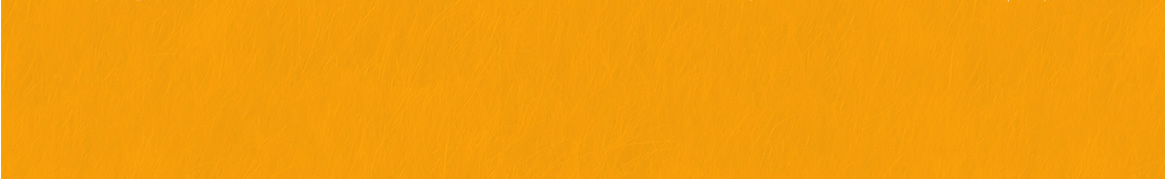
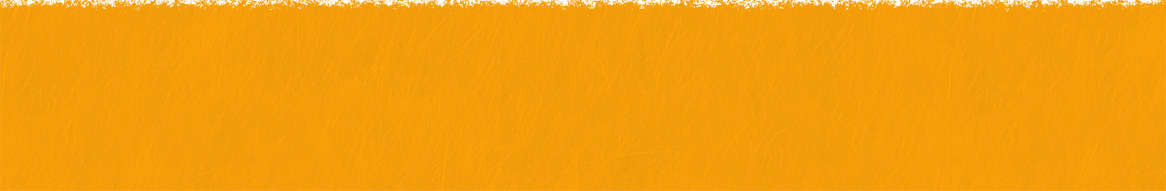
desktop checking done

Changed region(s): [[0.0, 0.0, 1.0, 0.0559]]

diff --git a/style-1.css b/style-1.css
@@ -26,11 +26,15 @@ header.fl-hdr {
 .hdr-rgt {
     text-align: right
 }
-.hdr-logo,
+.hdr-logo{
+    display: inline-block;
+    vertical-align: baseline;
+    max-width: 207px
+}
 .secure-img{
     display: inline-block;
     vertical-align: baseline;
-    max-width: 160px
+    max-width: 223px
 }
 .header .secure-img {
     max-width: 225px
@@ -38,9 +42,6 @@ header.fl-hdr {
 .fl-hdr img{
     width: 100%
 }
-
-
-
 .fl-shipping {
     padding-bottom: 28px;
     background: #fff;
@@ -88,9 +89,6 @@ header.fl-hdr {
     border-radius: 50px;
     top: 57px;
 }
-
-
-
 .fl-special-offer-sec{
     position: relative;
     color: #fff;
@@ -104,7 +102,7 @@ header.fl-hdr {
     right: 0;
     background-repeat: no-repeat!important;
     background-size: cover!important;
-    background-position: center bottom!important;
+    background-position: center bottom -1px !important;
     z-index: 2
 }
 .special-offer-dsc {
@@ -119,7 +117,7 @@ header.fl-hdr {
     color: #ffa70b;
     display: inline-block;
     vertical-align: baseline;
-    margin-bottom: 10px;
+    margin-bottom: 12px;
 }
 .special-offer-dsc > span {
 	font-family: 'Montserrat-SemiBold';
@@ -137,15 +135,14 @@ header.fl-hdr {
 .special-offer-dsc h2 span{
     color: #ffa70b
 }
-.special-offer-dsc > p{
-	font-family: 'Montserrat-SemiBold';
+.special-offer-dsc > p {
+    font-family: 'Montserrat-SemiBold';
     font-size: 24px;
+    padding-top: 8px;
     margin-bottom: 10px;
 }
-
-
 .fl-doctor-intro-sec {
-    padding: 52px 0 40px;
+    padding: 52px 0 30px;
     background: #fff;
 }
 .fl-doctor-intro-twopart {
@@ -155,7 +152,6 @@ header.fl-hdr {
     width: 48.82%;
     float: left;
 }
-
 .fl-doctor-intro-rgt-des {
     width: 51.18%;
     float: left;
@@ -166,17 +162,13 @@ header.fl-hdr {
 .fl-doctor-intro-sec p strong {
     font-family: 'Montserrat-Bold';
 }
-
 .fl-doctor-intro-rgt-des p:last-child{
     margin-bottom: 0;
 }
-
-
 .fl-shiny-hair-sec{
 	position: relative;
 	overflow:hidden;
 }
-
 .fl-shiny-hair-sec h3{
 	font-family: 'YanoneKaffeesatzBold';
 }
@@ -188,13 +180,12 @@ header.fl-hdr {
     margin-bottom: 0;
 }
 
-
 .fl-shiny-hair-block-1{
 	padding-bottom: 38px;
 	position: relative;
 }
 .fl-shiny-hair-block-1-hdr{
-	padding-bottom: 15px;
+	padding:0 15px 18px;
 }
 .fl-shiny-hair-block-1-twopart{
 	position: relative;
@@ -209,9 +200,8 @@ header.fl-hdr {
 .fl-shiny-hair-block-1-twopart .fl-shiny-hair-des{
 	width:55%;
 	float: left;
-	padding-right: 75px;
+	padding-right: 70px;
 }
-
 .fl-shiny-hair-block-2{
 	position: relative;
 	z-index: 1
@@ -242,7 +232,7 @@ header.fl-hdr {
 	padding-left: 31px;
 }
 .fl-shiny-hair-block-2-bq{
-	padding: 25px;
+	padding: 22px 27px 25px;
 	border:6px solid #089147;
 	text-align: center;
 	border-radius: 20px;
@@ -261,9 +251,6 @@ header.fl-hdr {
 	float: right;
 	font-size: 24px;
 }
-
-
-
 .fl-shiny-hair-block-3{
 	padding: 35px 0 25px;
 }
@@ -271,14 +258,23 @@ header.fl-hdr {
 	width:48.7%;
 	float: right;
 }
-
 .fl-shiny-hair-block-3-twopart .fl-shiny-hair-des{
 	width:51.3%;
 	float: left;
 	padding-right: 60px;
 }
-
-
+.ring-bg-1 {
+    position: absolute;
+    right: -225px;
+    top: 264px;
+    z-index: 1;
+}
+.ring-bg-2 {
+    position: absolute;
+    left: -241px;
+    bottom: 137px;
+    z-index: 1;
+}
 
 .fl-product-display-sec{
 	background-repeat: no-repeat !important;
@@ -287,20 +283,7 @@ header.fl-hdr {
 	padding-bottom: 50px;
 	color:#fff;
 	position: relative;
-	margin-bottom: 100px;
 }
-.btm-web-bg-img{
-	position: absolute;
-	left: 0;
-	right: 0;
-	bottom: -6px;
-	z-index: 29999999999;
-	width:100%;
-	height: 18px;
-	background: center bottom!important;
-	background-repeat: repeat-x !important;
-}
-
 .fl-product-display-hdr {
 	background-repeat: no-repeat !important;
 	background-position: center center !important;
@@ -310,24 +293,10 @@ header.fl-hdr {
 	margin-left: -25px;
 	margin-right: -25px;
 	padding: 27px 20px 27px;
-	z-index: 2;
 	margin-bottom: 35px;
-}
-.top-web-bg-img{
-	position: absolute;
-	left: 0;
-	right: 0;
-	top: -3px;
-	z-index: 3;
-	width:100%;
-	height: 18px;
-	background: center top!important;
-	background-repeat: repeat-x !important;
 }
 .fl-product-display-big-img{
 	padding-bottom:12px ;
-	position: relative;
-    z-index: 2;
 }
 .fl-product-display-big-img img{
 	width:100%;
@@ -341,10 +310,6 @@ header.fl-hdr {
 	color:#fff;
 	font-size: 32px;
 }
-.fl-product-display-tow-part {
-	position: relative;
-    z-index: 2;
-}
 .fl-product-display-tow-part .fl-pro-des-img{
 	width:48.7%;
 	float: left
@@ -357,35 +322,17 @@ header.fl-hdr {
 .fl-product-display-tow-part .fl-pro-des p:last-child{
 	margin-bottom: 0;
 }
-
-
-.ring-bg-1 {
+.fl-pro-wave-bg {
     position: absolute;
-    right: -225px;
-    top: 264px;
-    z-index: 1;
+    left: 0;
+    right: 0;
+    top: 100%;
+    z-index: 2;
+    margin-top: -12px;
+    background-repeat: repeat-x !important;
+    background-position: bottom center !important;
+    height: 18px;
 }
-.ring-bg-2 {
-    position: absolute;
-    left: -241px;
-    bottom: 137px;
-    z-index: 1;
-}
-.ring-bg-3 {
-    position: absolute;
-	right: -215px;
-	top: 150px;
-    z-index: 1;
-}
-.ring-bg-4 {
-    position: absolute;
-    left: -215px;
-    top: 575px;
-    z-index: 1;
-}
-
-
-
 
 
 

diff --git a/index-1.html b/index-1.html
@@ -8,7 +8,7 @@
   <meta name="robots" content="noindex,nofollow">
   <meta name="robots" content="noindex">
   <meta name="robots" content="nofollow"> 
-  <link rel="icon" href="favicon.ico" type="image/x-icon">
+  <link rel="icon" href="favicon.ico" type="image/x-icon"> 
   <link rel="stylesheet" href="assets/css/bootstrap.min.css">
   <link rel="stylesheet" href="common.css">
   <link rel="stylesheet" href="style-1.css">
@@ -80,7 +80,7 @@
           <h2><span>New University Study Reveals Breakthrough Hair, Skin, and Nails Formula for Women Over 40</span></h1>
           <p>Read below to discover what it is -- and how you can get a fantastic new tool for menopause damage to your hair, skin, and nails today </p>              
         </div>          
-      </div>
+      </div> 
     </div>
   </div>
 </section>
@@ -184,14 +184,9 @@
 </section>
 
 
-<section class="fl-product-display-sec plr-10 lazy" data-src="assets/images/pro-sec-bg.jpg">
-  <span class="btm-web-bg-img lazy" data-bg="assets/images/web-bg-img-001.png"></span>
-  <span class="ring-bg-3">
-    <img src="assets/images/ring-bg-trans.png" alt="">    
-  </span> 
-  <span class="ring-bg-4">
-    <img src="assets/images/ring-bg-trans.png" alt="">    
-  </span>
+<section class="fl-product-display-sec plr-10 lazy" data-src="assets/images/fl-product-display-full-bg.jpg">
+  <div class="fl-pro-wave-bg lazy" data-src="assets/images/fl-pro-wave-bg.png"></div>
+
   <div class="container">
     <div class="row">
       <div class="col-sm-12">
